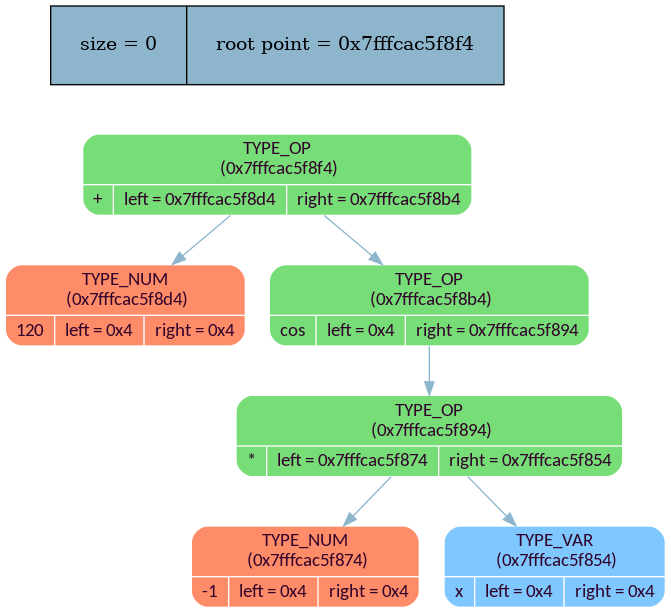
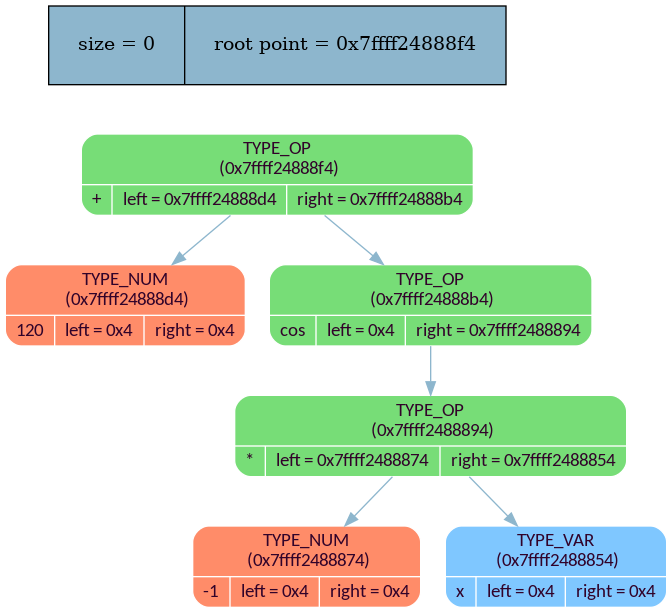
added some sipmlify func

diff --git a/logs/log_file.html b/logs/log_file.html
@@ -102,79 +102,15 @@
 <font color = #8DB6CD size = 6>Here is the print of your tree</font>
 
 <img src = ../logs/log_pics/tree_d2.png width = 800 height = 350>
-<font color = #70DB53 size=5>Created node: address (0x4a55e14) | value  (10)</font>
-
-<font color = #70DB53 size=5>Created node: address (0x4a55e74) | value  (10)</font>
-
-<font color = #70DB53 size=5>Created node: address (0x4a55ed4) | value  (42)</font>
-
-<font color = #6018CF size=5>Created edge: parent address (0x4a55ed4) | value (42); left  (0x4a55e74) | value (42)</font>
-
-<font color = #6018CF size=5>Created edge: parent address (0x4a55ed4) | value (0); right  (0x4a55e14) | value (0)</font>
-
-<font color = #70DB53 size=5>Created node: address (0x4a55f34) | value  (120)</font>
-
-<font color = #70DB53 size=5>Created node: address (0x4a55f94) | value  (10)</font>
-
-<font color = #70DB53 size=5>Created node: address (0x4a55ff4) | value  (42)</font>
-
-<font color = #6018CF size=5>Created edge: parent address (0x4a55ff4) | value (42); left  (0x4a55f94) | value (42)</font>
-
-<font color = #6018CF size=5>Created edge: parent address (0x4a55ff4) | value (0); right  (0x4a55f34) | value (0)</font>
-
-<font color = #70DB53 size=5>Created node: address (0x4a56054) | value  (43)</font>
-
-<font color = #6018CF size=5>Created edge: parent address (0x4a56054) | value (43); left  (0x4a55ff4) | value (43)</font>
-
-<font color = #6018CF size=5>Created edge: parent address (0x4a56054) | value (0); right  (0x4a55ed4) | value (0)</font>
-
-<font color = #70DB53 size=5>Created node: address (0x4a560b4) | value  (120)</font>
-
-<font color = #70DB53 size=5>Created node: address (0x4a56114) | value  (10)</font>
-
-<font color = #70DB53 size=5>Created node: address (0x4a56174) | value  (42)</font>
-
-<font color = #6018CF size=5>Created edge: parent address (0x4a56174) | value (42); left  (0x4a56114) | value (42)</font>
-
-<font color = #6018CF size=5>Created edge: parent address (0x4a56174) | value (0); right  (0x4a560b4) | value (0)</font>
-
-<font color = #70DB53 size=5>Created node: address (0x4a561d4) | value  (50)</font>
-
-<font color = #6018CF size=5>Created edge: parent address (0x4a561d4) | value (0); right  (0x4a56174) | value (0)</font>
-
-<font color = #70DB53 size=5>Created node: address (0x4a56234) | value  (10)</font>
-
-<font color = #70DB53 size=5>Created node: address (0x4a56294) | value  (42)</font>
-
-<font color = #6018CF size=5>Created edge: parent address (0x4a56294) | value (42); left  (0x4a56234) | value (42)</font>
-
-<font color = #6018CF size=5>Created edge: parent address (0x4a56294) | value (0); right  (0x4a561d4) | value (0)</font>
-
-<font color = #70DB53 size=5>Created node: address (0x4a562f4) | value  (42)</font>
-
-<font color = #6018CF size=5>Created edge: parent address (0x4a562f4) | value (42); left  (0x4a56294) | value (42)</font>
-
-<font color = #6018CF size=5>Created edge: parent address (0x4a562f4) | value (0); right  (0x4a56054) | value (0)</font>
-
-<font color = orange size=5>Node was removed: address (0x4a52ba4) </font>
-
-<font color = orange size=5>Node was removed: address (0x4a527e4) </font>
-
-<font color = orange size=5>Node was removed: address (0x4a526c4) </font>
-
-<font color = orange size=5>Node was removed: address (0x4a52664) </font>
-
-<font color = orange size=5>Node was removed: address (0x4a52724) </font>
-
-<font color = orange size=5>Node was removed: address (0x4a52784) </font>
-
-<font color = orange size=5>Node was removed: address (0x4a52844) </font>
-
 <font color = orange size=5>Node was removed: address (0x4a52a24) </font>
 
 <font color = orange size=5>Node was removed: address (0x4a529c4) </font>
 
 <font color = orange size=5>Node was removed: address (0x4a52a84) </font>
+
+<font color = #70DB53 size=5>Created node: address (0x4a54dd4) | value  (10)</font>
+
+<font color = #6018CF size=5>Created edge: parent address (0x4a52ae4) | value (43); left  (0x4a54dd4) | value (43)</font>
 
 <font color = orange size=5>Node was removed: address (0x4a52904) </font>
 
@@ -182,47 +118,19 @@
 
 <font color = orange size=5>Node was removed: address (0x4a52964) </font>
 
+<font color = #70DB53 size=5>Created node: address (0x4a54e34) | value  (10)</font>
+
+<font color = #6018CF size=5>Created edge: parent address (0x4a52ae4) | value (0); right  (0x4a54e34) | value (0)</font>
+
+<font color = orange size=5>Node was removed: address (0x4a54dd4) </font>
+
+<font color = orange size=5>Node was removed: address (0x4a54e34) </font>
+
 <font color = orange size=5>Node was removed: address (0x4a52ae4) </font>
 
-<font color = orange size=5>Node was removed: address (0x4a52b44) </font>
+<font color = #70DB53 size=5>Created node: address (0x4a54e94) | value  (10)</font>
 
-<font color = orange size=5>Node was removed: address (0x4a52c04) </font>
-
-<font color = #70DB53 size=5>Created node: address (0x4a56354) | value  (10)</font>
-
-<font color = #70DB53 size=5>Created node: address (0x4a563b4) | value  (10)</font>
-
-<font color = #70DB53 size=5>Created node: address (0x4a56414) | value  (42)</font>
-
-<font color = #6018CF size=5>Created edge: parent address (0x4a56414) | value (42); left  (0x4a563b4) | value (42)</font>
-
-<font color = #6018CF size=5>Created edge: parent address (0x4a56414) | value (0); right  (0x4a56354) | value (0)</font>
-
-<font color = orange size=5>Node was removed: address (0x4a55f94) </font>
-
-<font color = orange size=5>Node was removed: address (0x4a55f34) </font>
-
-<font color = orange size=5>Node was removed: address (0x4a55ff4) </font>
-
-<font color = orange size=5>Node was removed: address (0x4a55e74) </font>
-
-<font color = orange size=5>Node was removed: address (0x4a55e14) </font>
-
-<font color = orange size=5>Node was removed: address (0x4a55ed4) </font>
-
-<font color = orange size=5>Node was removed: address (0x4a56054) </font>
-
-<font color = #6018CF size=5>Created edge: parent address (0x4a562f4) | value (0); right  (0x4a56414) | value (0)</font>
-
-<font color = orange size=5>Node was removed: address (0x4a563b4) </font>
-
-<font color = orange size=5>Node was removed: address (0x4a56354) </font>
-
-<font color = orange size=5>Node was removed: address (0x4a56414) </font>
-
-<font color = #70DB53 size=5>Created node: address (0x4a56474) | value  (10)</font>
-
-<font color = #6018CF size=5>Created edge: parent address (0x4a562f4) | value (0); right  (0x4a56474) | value (0)</font>
+<font color = #6018CF size=5>Created edge: parent address (0x4a52b44) | value (0); right  (0x4a54e94) | value (0)</font>
 
 
 
@@ -241,19 +149,23 @@
 
 <font color = orange size=5>Node was removed: address (0x4a50e74) </font>
 
-<font color = orange size=5>Node was removed: address (0x4a56234) </font>
+<font color = orange size=5>Node was removed: address (0x4a52ba4) </font>
 
-<font color = orange size=5>Node was removed: address (0x4a56114) </font>
+<font color = orange size=5>Node was removed: address (0x4a527e4) </font>
 
-<font color = orange size=5>Node was removed: address (0x4a560b4) </font>
+<font color = orange size=5>Node was removed: address (0x4a526c4) </font>
 
-<font color = orange size=5>Node was removed: address (0x4a56174) </font>
+<font color = orange size=5>Node was removed: address (0x4a52664) </font>
 
-<font color = orange size=5>Node was removed: address (0x4a561d4) </font>
+<font color = orange size=5>Node was removed: address (0x4a52724) </font>
 
-<font color = orange size=5>Node was removed: address (0x4a56294) </font>
+<font color = orange size=5>Node was removed: address (0x4a52784) </font>
 
-<font color = orange size=5>Node was removed: address (0x4a56474) </font>
+<font color = orange size=5>Node was removed: address (0x4a52844) </font>
 
-<font color = orange size=5>Node was removed: address (0x4a562f4) </font>
+<font color = orange size=5>Node was removed: address (0x4a54e94) </font>
+
+<font color = orange size=5>Node was removed: address (0x4a52b44) </font>
+
+<font color = orange size=5>Node was removed: address (0x4a52c04) </font>
 

diff --git a/differ_func.cpp b/differ_func.cpp
@@ -126,26 +126,25 @@ tree_node_t* copy_node (const tree_node_t* tree_node)
     return NULL;
 }
 
-tree_node_t* simpl_func (tree_t* pine, tree_node_t* tree_node, char dif_var)
+//-------------------------------------------------------------------------------------------------------------------------------------------------------------
+
+tree_node_t* simpl_node (tree_node_t* tree_node, char dif_var)
 {
+    MY_ASSERT (tree_node != NULL)
     int change_flag = 1;
     while (change_flag != 0)
     {
         change_flag = 0;
-        tree_node = simpl_node (pine, tree_node, dif_var, &change_flag);
+        tree_node = simpl_func (tree_node, dif_var, &change_flag);
     }
     return tree_node;
 }
 
-tree_node_t* simpl_node (tree_t* pine, tree_node_t* tree_node, char dif_var, int* change_flag)
+tree_node_t* simpl_func (tree_node_t* tree_node, char dif_var, int* change_flag)
 {
-
     static int rec_level   = 0;
-    //printf ("hey\n")
-
     if (is_arithm_op (tree_node))
     {
-        printf ("hey\n");
         if (tree_node->right->node_type == TYPE_NUM && tree_node->left->node_type == TYPE_NUM)
         {
             *change_flag = 1;
@@ -153,6 +152,7 @@ tree_node_t* simpl_node (tree_t* pine, tree_node_t* tree_node, char dif_var, int
             tree_delete (tree_node);
             return New_num (value);
         }
+
         if (tree_node->node_type == OP_MUL)
         {
             if ((tree_node->left->node_type == TYPE_NUM  && tree_node->left->value ==  0) ||
@@ -160,7 +160,7 @@ tree_node_t* simpl_node (tree_t* pine, tree_node_t* tree_node, char dif_var, int
             {
                 *change_flag = 1;
                 tree_delete (tree_node);
-                return New_num (0);      //TODO eval calculate and make one macros
+                return New_num (0);
             }
             else if (tree_node->left->node_type == TYPE_NUM  && tree_node->left->value == 1)
             {
@@ -176,7 +176,14 @@ tree_node_t* simpl_node (tree_t* pine, tree_node_t* tree_node, char dif_var, int
                 tree_delete (tree_node);
                 return tmp_node;
             }
+            else if ((tree_node->left->node_type == TYPE_VAR && tree_node->right->node_type == TYPE_VAR) && tree_node->left->value == tree_node->right->value)
+            {
+                tree_node_t* tmp_node = Pow (New_var (TYPE_VAR, tree_node->right->value), New_num (2));
+                tree_delete (tree_node);
+                return tmp_node;
+            }
         }
+
         if (tree_node->node_type == OP_ADD)
         {
             if (is_arithm_op (tree_node->right))
@@ -195,23 +202,58 @@ tree_node_t* simpl_node (tree_t* pine, tree_node_t* tree_node, char dif_var, int
                     return tree_new_op_node (OP_SUB, tmp_func_node2, tmp_r_side);
                 }
             }
-            if (tree_node->left->value == 0)
+            else if (tree_node->right->right->value < 0)
             {
-                printf ("here");
+                *change_flag = 1;
+                tree_node_t* tmp_num_node   = New_num   (-tree_node->right->right->value);
+                tree_node_t* tmp_func_node1 = copy_node (tree_node->right->left);
+                tree_node_t* tmp_r_side     = tree_new_op_node (tree_node->right->node_type, tmp_num_node, tmp_func_node1);
+                tree_delete (tree_node->right);
+                tree_node->right = NULL;
+
+                tree_node_t* tmp_func_node2 = copy_node (tree_node->left);
+                tree_delete (tree_node);
+                return tree_new_op_node (OP_SUB, tmp_func_node2, tmp_r_side);
+            }
+            else if (tree_node->left->value == 0)
+            {
                 *change_flag = 1;
                 tree_node_t* tmp_node = copy_node (tree_node->right);
                 tree_delete (tree_node);
                 return (tmp_node);
-
             }
-            //else if (is_arithm_op (tree_node->right))
+            else if (tree_node->right->value == 0)
+            {
+                *change_flag = 1;
+                tree_node_t* tmp_node = copy_node (tree_node->left);
+                tree_delete (tree_node);
+                return (tmp_node);
+            }
+        }
+
+        if (tree_node->node_type == OP_SUB)
+        {
+            if (tree_node->left->value == 0)
+            {
+                *change_flag = 1;
+                tree_node_t* tmp_node = copy_node (tree_node->right);
+                tree_delete (tree_node);
+                return (tmp_node);
+            }
+            else if (tree_node->right->value == 0)
+            {
+                *change_flag = 1;
+                tree_node_t* tmp_node = copy_node (tree_node->left);
+                tree_delete (tree_node);
+                return (tmp_node);
+            }
         }
     }
 
     if (tree_node->left != NULL)
     {
         rec_level++;
-        tree_node_t* ret_node = simpl_node (pine, tree_node->left, dif_var, change_flag);
+        tree_node_t* ret_node = simpl_func (tree_node->left, dif_var, change_flag);
         rec_level--;
         if (tree_node->left != ret_node)
         {
@@ -222,7 +264,7 @@ tree_node_t* simpl_node (tree_t* pine, tree_node_t* tree_node, char dif_var, int
     if (tree_node->right != NULL)
     {
         rec_level++;
-        tree_node_t* ret_node = simpl_node (pine, tree_node->right, dif_var, change_flag);
+        tree_node_t* ret_node = simpl_func (tree_node->right, dif_var, change_flag);
         rec_level--;
         if (tree_node->right != ret_node)
         {
@@ -230,22 +272,6 @@ tree_node_t* simpl_node (tree_t* pine, tree_node_t* tree_node, char dif_var, int
             tree_link_r (tree_node, ret_node);
         }
     }
-    printf ("%d %d\n", rec_level, *change_flag);
 
     return tree_node;
 }
-
-// if ((tree_node->node_type == OP_ADD || tree_node->node_type == OP_SUB) && (tree_node->right->value == 0 || tree_node->value == 0))
-// {
-//     if (tree_node->right->value == 0)
-//     {
-//         tree_delete (tree_node->right);
-//         tree_node->right = NULL;
-//     }
-//     else
-//     {
-//         tree_delete (tree_node->left);
-//         tree_node->left = NULL;
-//     }
-//     *change_flag = 1;
-// }

diff --git a/differentiator.h b/differentiator.h
@@ -9,5 +9,5 @@
 
 tree_node_t* dif_node   (const tree_node_t* tree_node, char dif_var);
 tree_node_t* copy_node  (const tree_node_t* tree_node);
-tree_node_t* simpl_node (tree_t* pine, tree_node_t* tree_node, char dif_var, int* change_flag);
-tree_node_t* simpl_func (tree_t* pine, tree_node_t* tree_node, char dif_var);
+tree_node_t* simpl_func (tree_node_t* tree_node, char dif_var, int* change_flag);
+tree_node_t* simpl_node (tree_node_t* tree_node, char dif_var);

diff --git a/main.cpp b/main.cpp
@@ -20,7 +20,7 @@ int main ()
     dif_pine.root = dif_node (pine.root , 'x');
     write_latex_log (dif_pine.root, TEX_DIF, 'x');
     graph_dump (&dif_pine);
-    dif_pine.root = simpl_func (&dif_pine, dif_pine.root, 'x');
+    dif_pine.root = simpl_node (dif_pine.root, 'x');
     FILE* br_write = fopen ("./test_files/write_br_seq.txt", "w");
     write_brackets  (br_write, dif_pine.root);
     fclose          (br_write);

diff --git a/LaTeX/differ.tex b/LaTeX/differ.tex
@@ -55,7 +55,7 @@
 \end{equation*}
 
 \section{The final trivial transition}\begin{equation*}
-    \frac{d}{dx} = {{{-1}}\cdot{\sin({{{-1}}\cdot{{x}}})}}\cdot{{-1}}
+    \frac{d}{dx} = ({{0}}+{{{{-1}}\cdot{\sin({{{-1}}\cdot{{x}}})}}\cdot{{-1}}})
 \end{equation*}
 
 \end {document}
